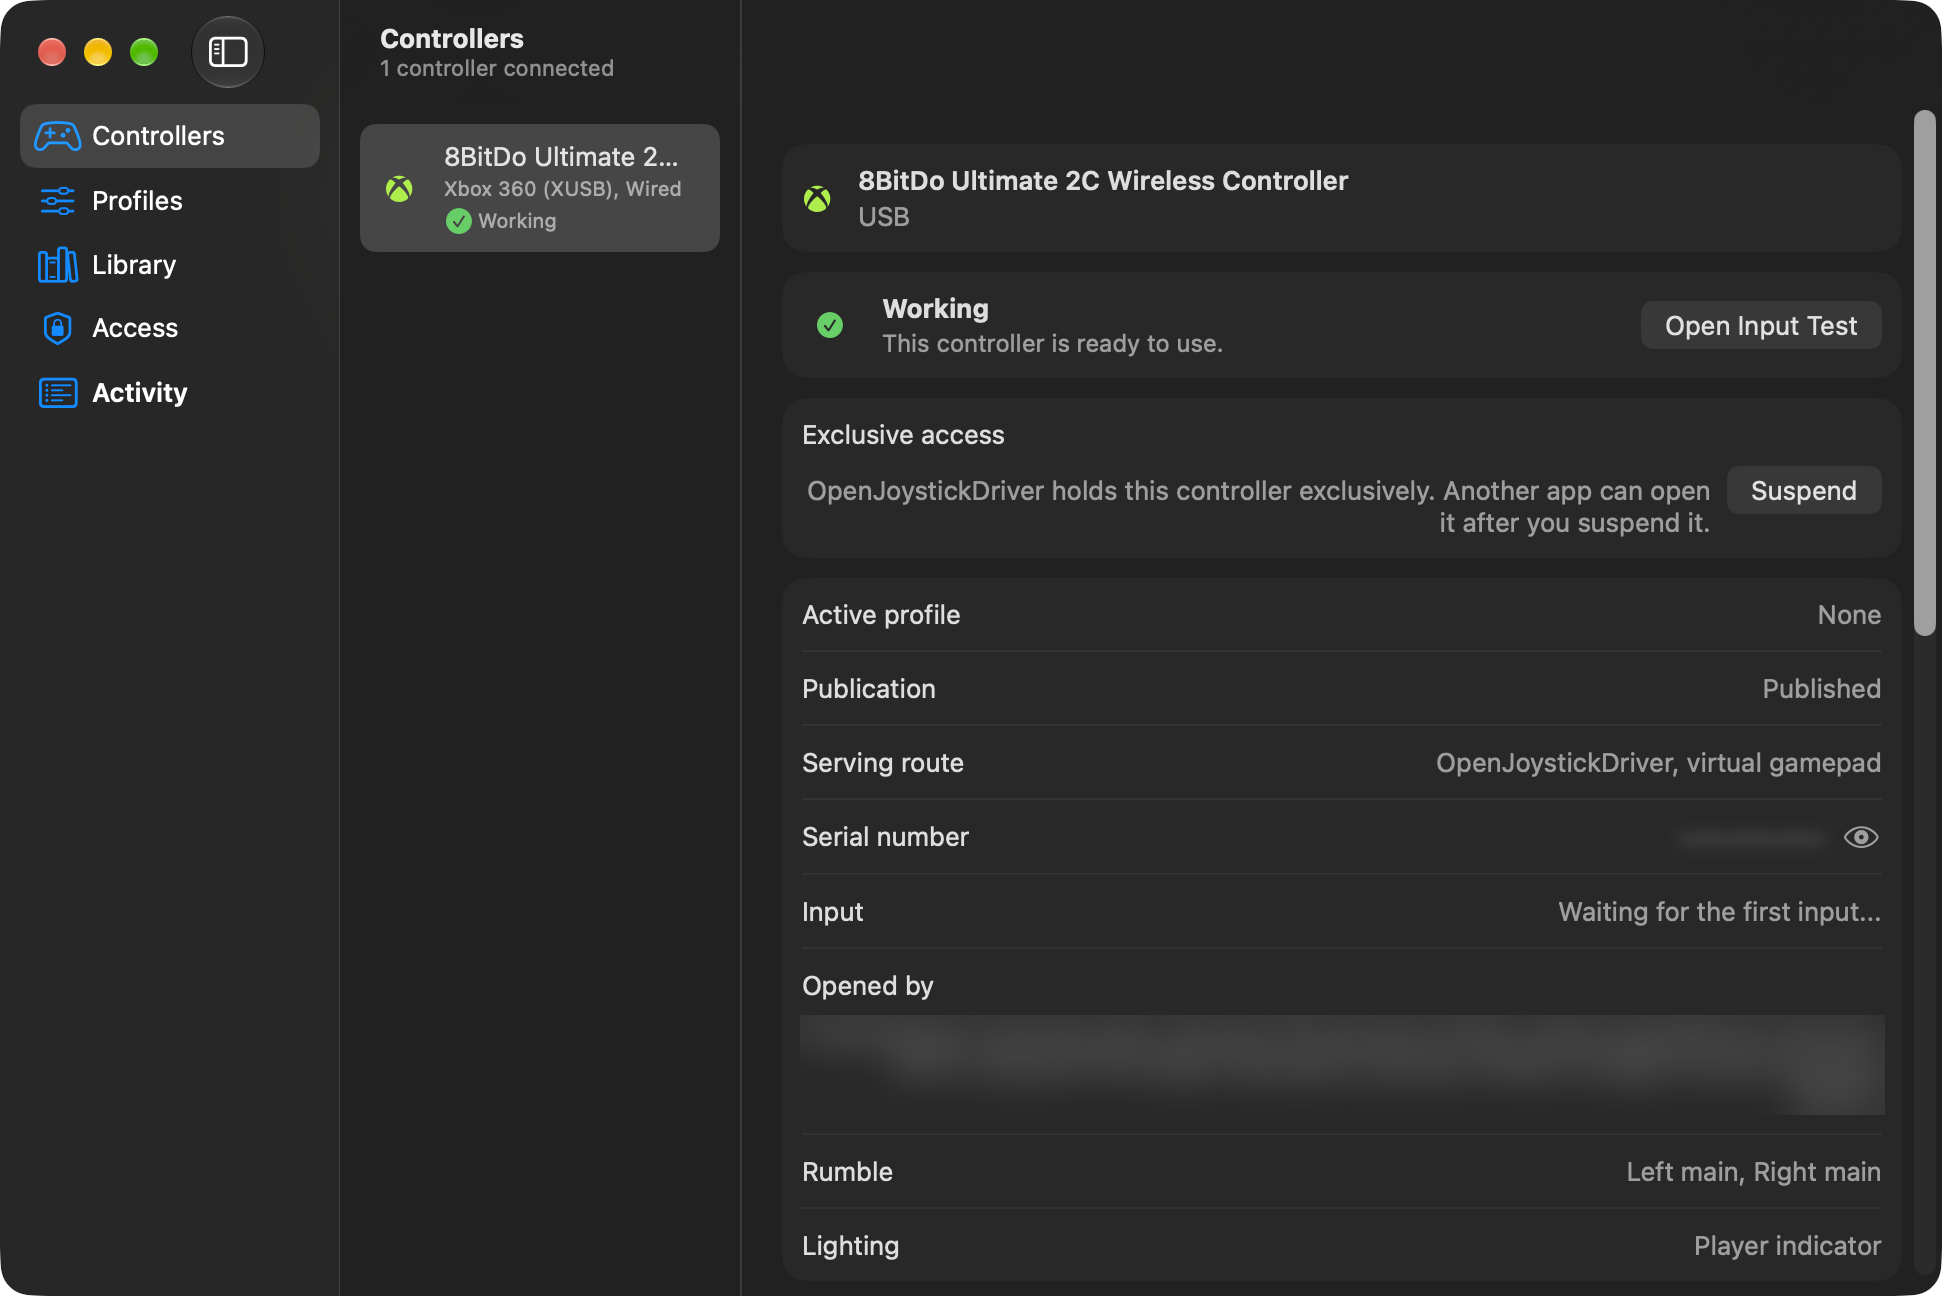
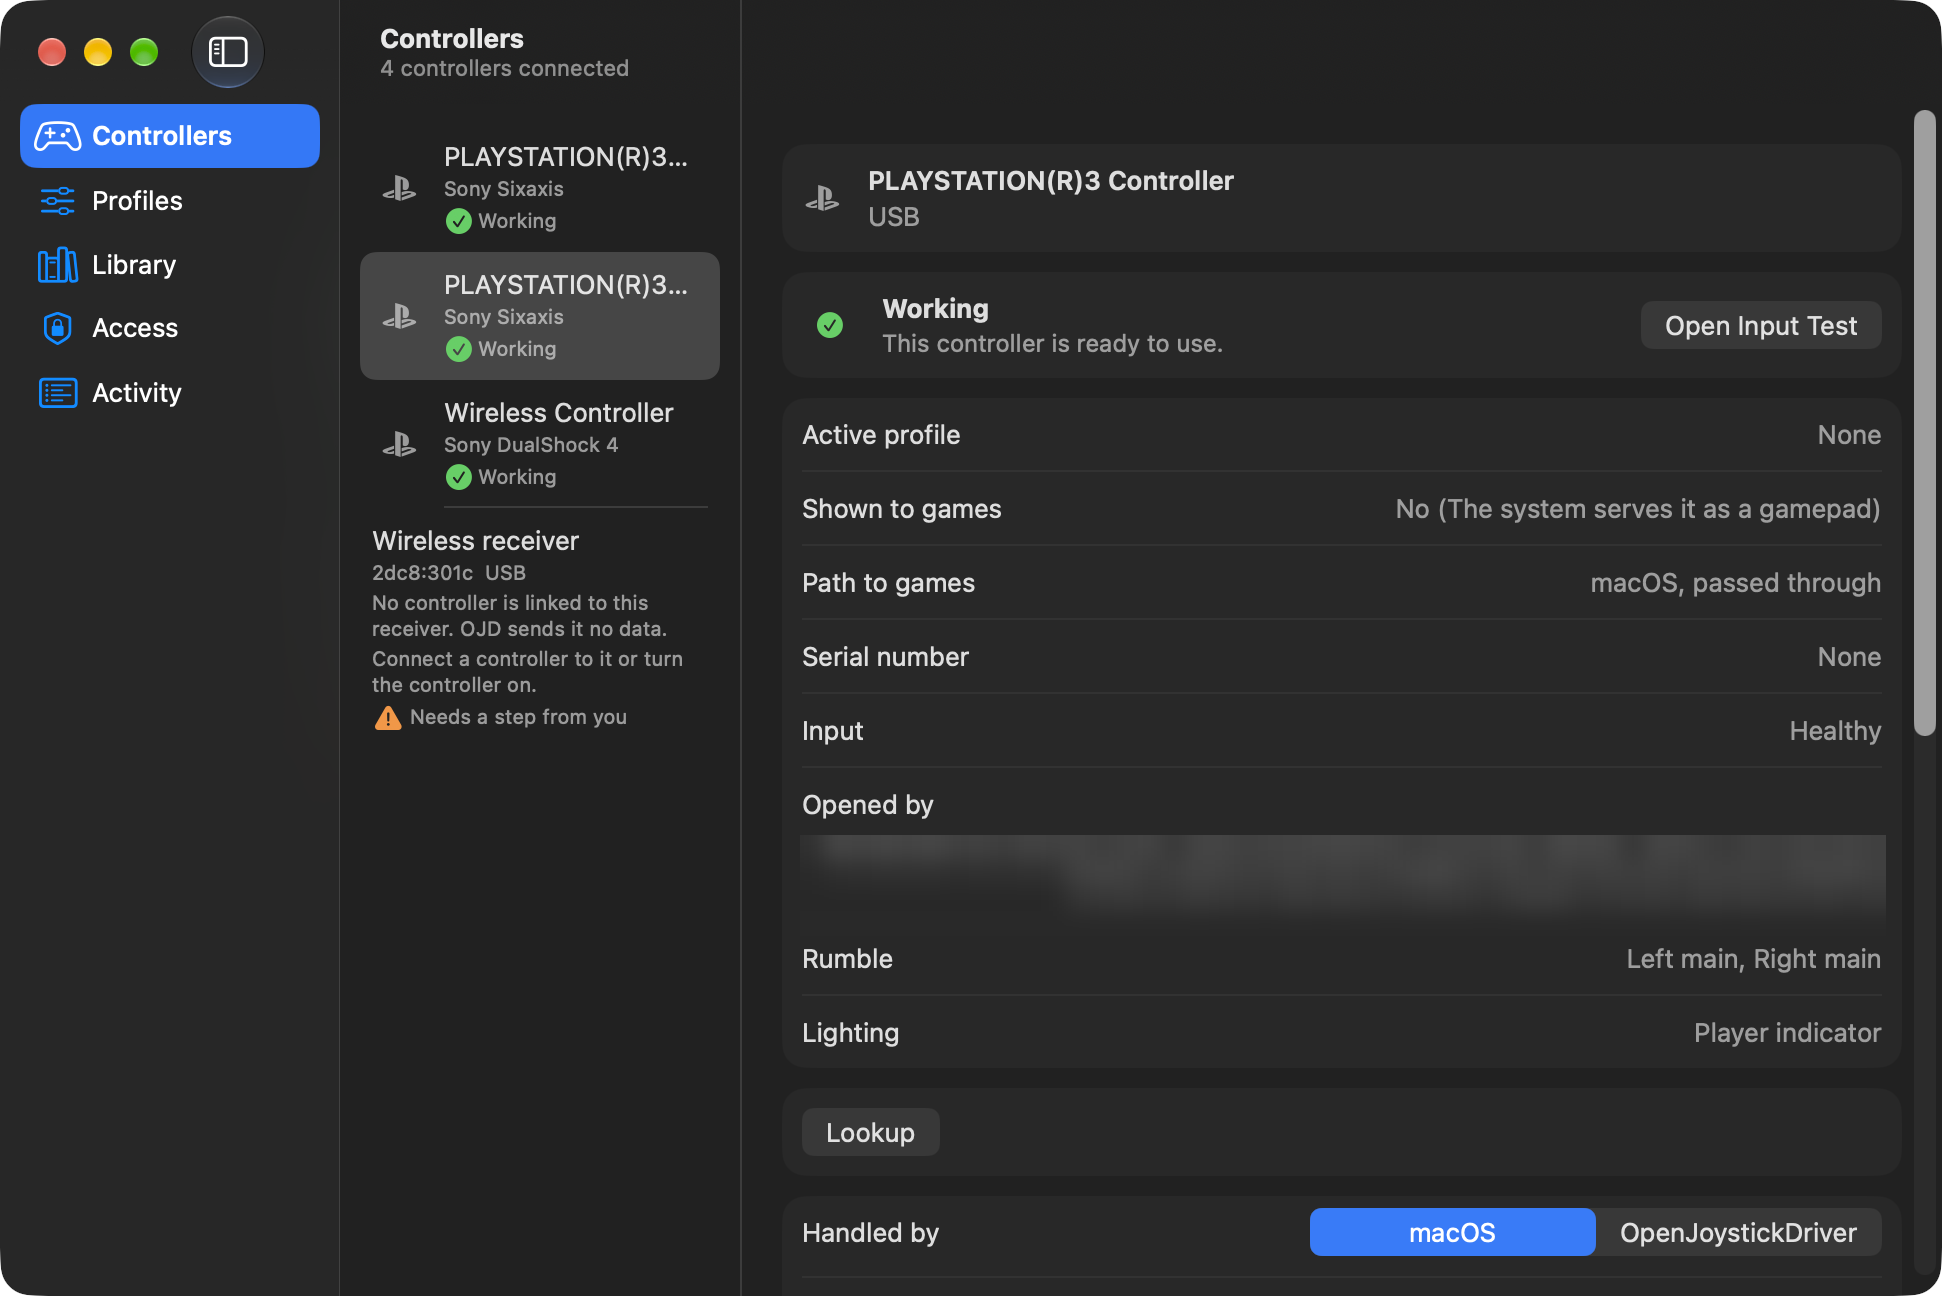
docs(screenshots): retake the Controllers window with its current labels

diff --git a/Scripts/GUI/step_pictures.py b/Scripts/GUI/step_pictures.py
@@ -10,6 +10,13 @@ from Scripts.GUI.annotate import Box, Callout, StepPicture
 
 PICTURES: tuple[StepPicture, ...] = (
     StepPicture(
+        "main-controllers",
+        "main-controllers.png",
+        (),
+        masks=(Box(800, 835, 1886, 936),),
+        folder="",
+    ),
+    StepPicture(
         "controllers-overview",
         "main-controllers.png",
         (
@@ -26,7 +33,7 @@ PICTURES: tuple[StepPicture, ...] = (
                 ("Press each button and watch it light up.",),
             ),
             Callout(
-                (390, 860),
+                (390, 717),
                 (30, 960),
                 "Needs a step from you",
                 ("Do what the text above it says.",),
@@ -36,6 +43,12 @@ PICTURES: tuple[StepPicture, ...] = (
                 (1150, 842),
                 "Opened by: apps using it now",
                 ("Blurred here for privacy.",),
+            ),
+            Callout(
+                (1330, 1212),
+                (30, 1130),
+                "Handled by: who reads it",
+                ("macOS, or OJD with a virtual gamepad.",),
             ),
         ),
         masks=(Box(800, 835, 1886, 936),),

diff --git a/README.md b/README.md
@@ -23,7 +23,7 @@
 
 </div>
 
-![The Controllers window with an 8BitDo controller served as a virtual gamepad](docs/screenshots/main-controllers.png)
+![The Controllers window with four controllers. The selected PlayStation 3 controller works and is handled by macOS](docs/screenshots/main-controllers.png)
 
 macOS reads a short list of game controllers and ignores the rest, such as the DualShock 3 above. OpenJoystickDriver (OJD) is a menu-bar app that reads those controllers over USB, Bluetooth or a 2.4 GHz dongle and gives games a virtual Xbox or generic gamepad. A controller macOS already handles is left to macOS. OJD runs in your user session with one DriverKit extension and no kernel extension, so SIP and AMFI stay on.
 

diff --git a/wiki/Using-the-App.md b/wiki/Using-the-App.md
@@ -87,7 +87,7 @@ These menus are specific to OJD:
 
 ## Controllers Area
 
-![The Controllers area. Red arrows point to the controller list, to Open Input Test, to a status that needs a step from you, and to the Opened by row, which is blurred for privacy](../docs/screenshots/steps/controllers-overview.png)
+![The Controllers area. Red arrows point to the controller list, to Open Input Test, to a status that needs a step from you, to the Opened by row, which is blurred for privacy, and to the Handled by switch](../docs/screenshots/steps/controllers-overview.png)
 
 Select a controller to see its details. If a controller is missing, see [If a Controller Isn't Detected](Troubleshooting.md#if-a-controller-isnt-detected).
 

diff --git a/wiki/Known-Issues.md b/wiki/Known-Issues.md
@@ -77,7 +77,7 @@ flowchart LR
 - the **Controllers** list and the controller's details in the app
 - `ojd controller show VVVV:PPPP`
 
-![The Controllers area. Red arrows point to the controller list, to Open Input Test, to a status that needs a step from you, and to the Opened by row, which is blurred for privacy](../docs/screenshots/steps/controllers-overview.png)
+![The Controllers area. Red arrows point to the controller list, to Open Input Test, to a status that needs a step from you, to the Opened by row, which is blurred for privacy, and to the Handled by switch](../docs/screenshots/steps/controllers-overview.png)
 
 **What to do:** quit that app. OJD takes the controller back as soon as the app lets go.
 

diff --git a/wiki/Home.md b/wiki/Home.md
@@ -20,7 +20,7 @@ flowchart LR
 
 The main window shows each controller and what it's doing:
 
-![The Controllers area. Red arrows point to the controller list, to Open Input Test, to a status that needs a step from you, and to the Opened by row, which is blurred for privacy](../docs/screenshots/steps/controllers-overview.png)
+![The Controllers area. Red arrows point to the controller list, to Open Input Test, to a status that needs a step from you, to the Opened by row, which is blurred for privacy, and to the Handled by switch](../docs/screenshots/steps/controllers-overview.png)
 
 ## Which Page Do I Need?
 
